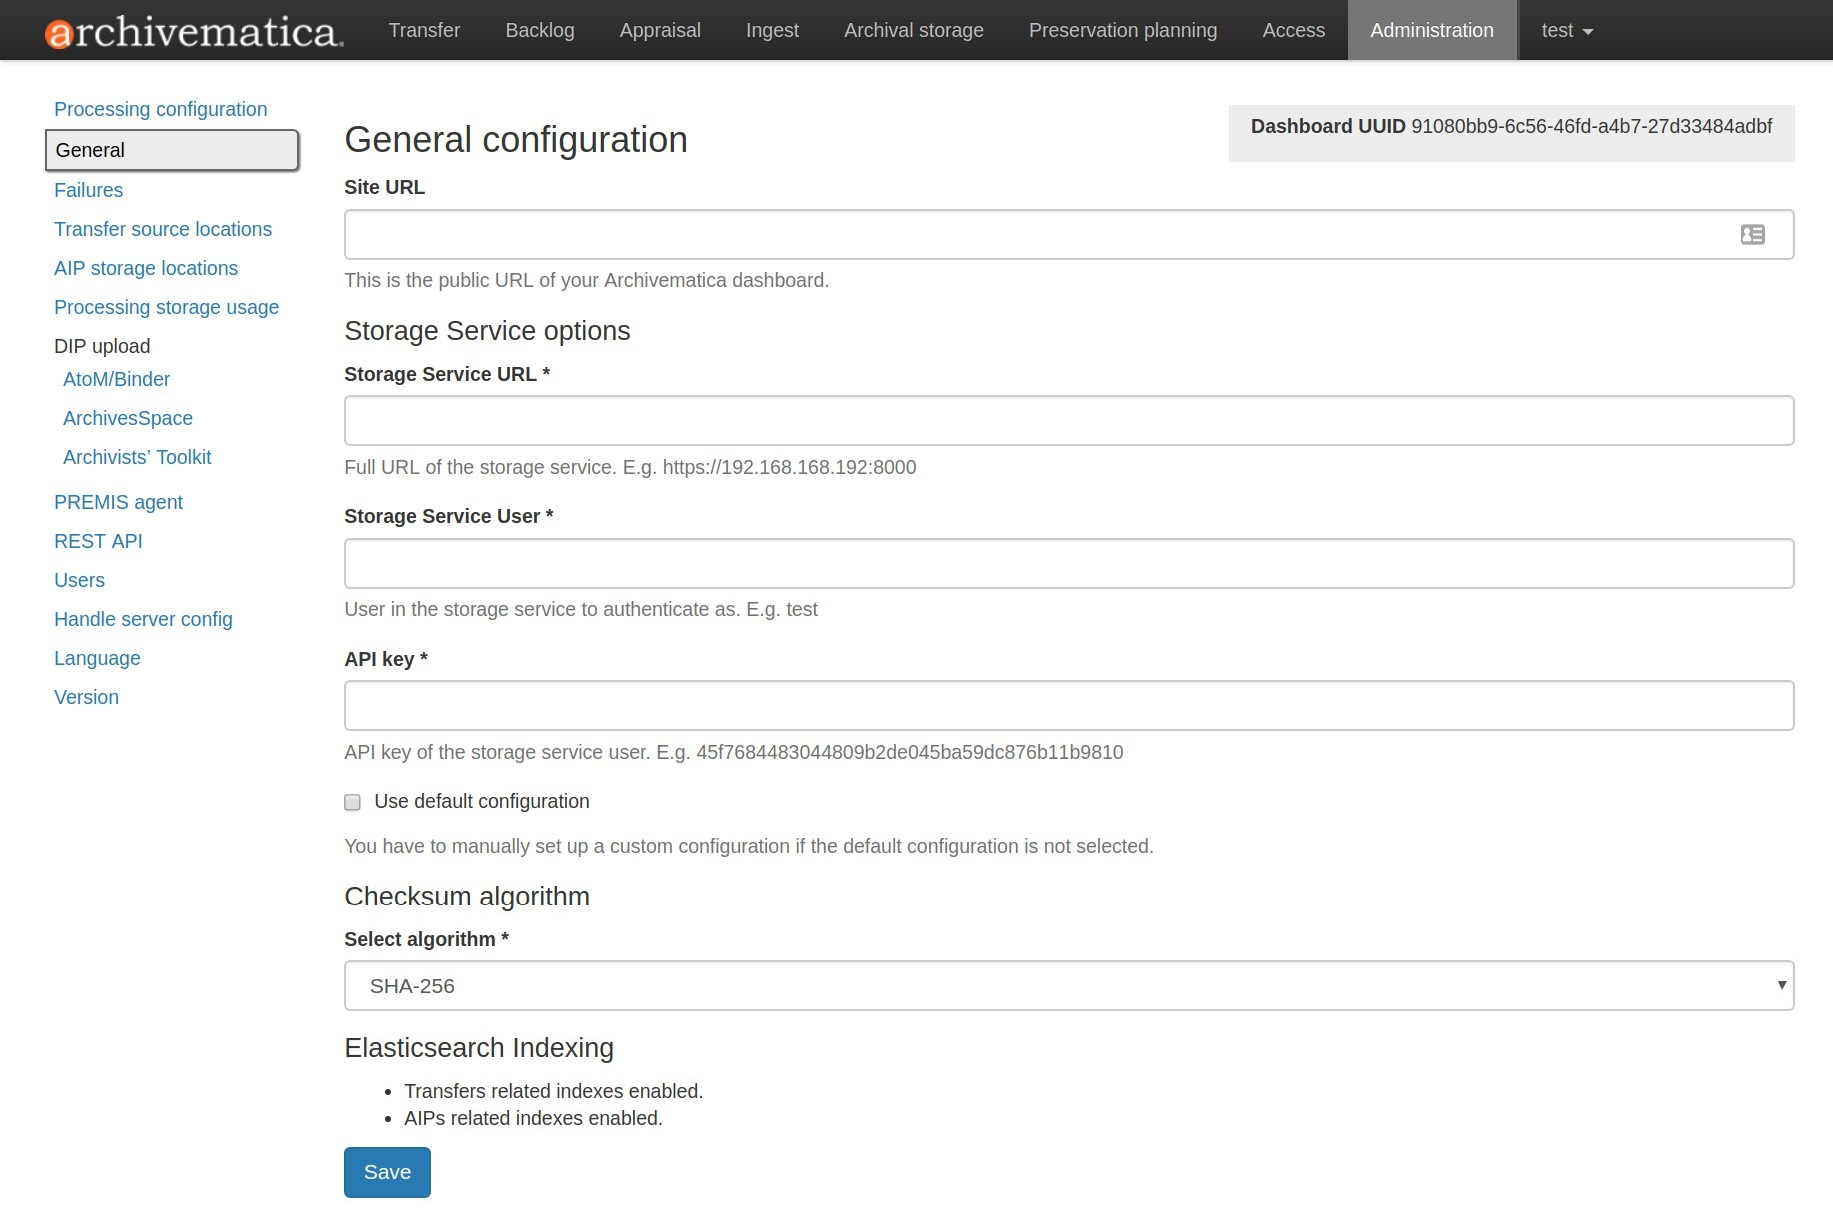
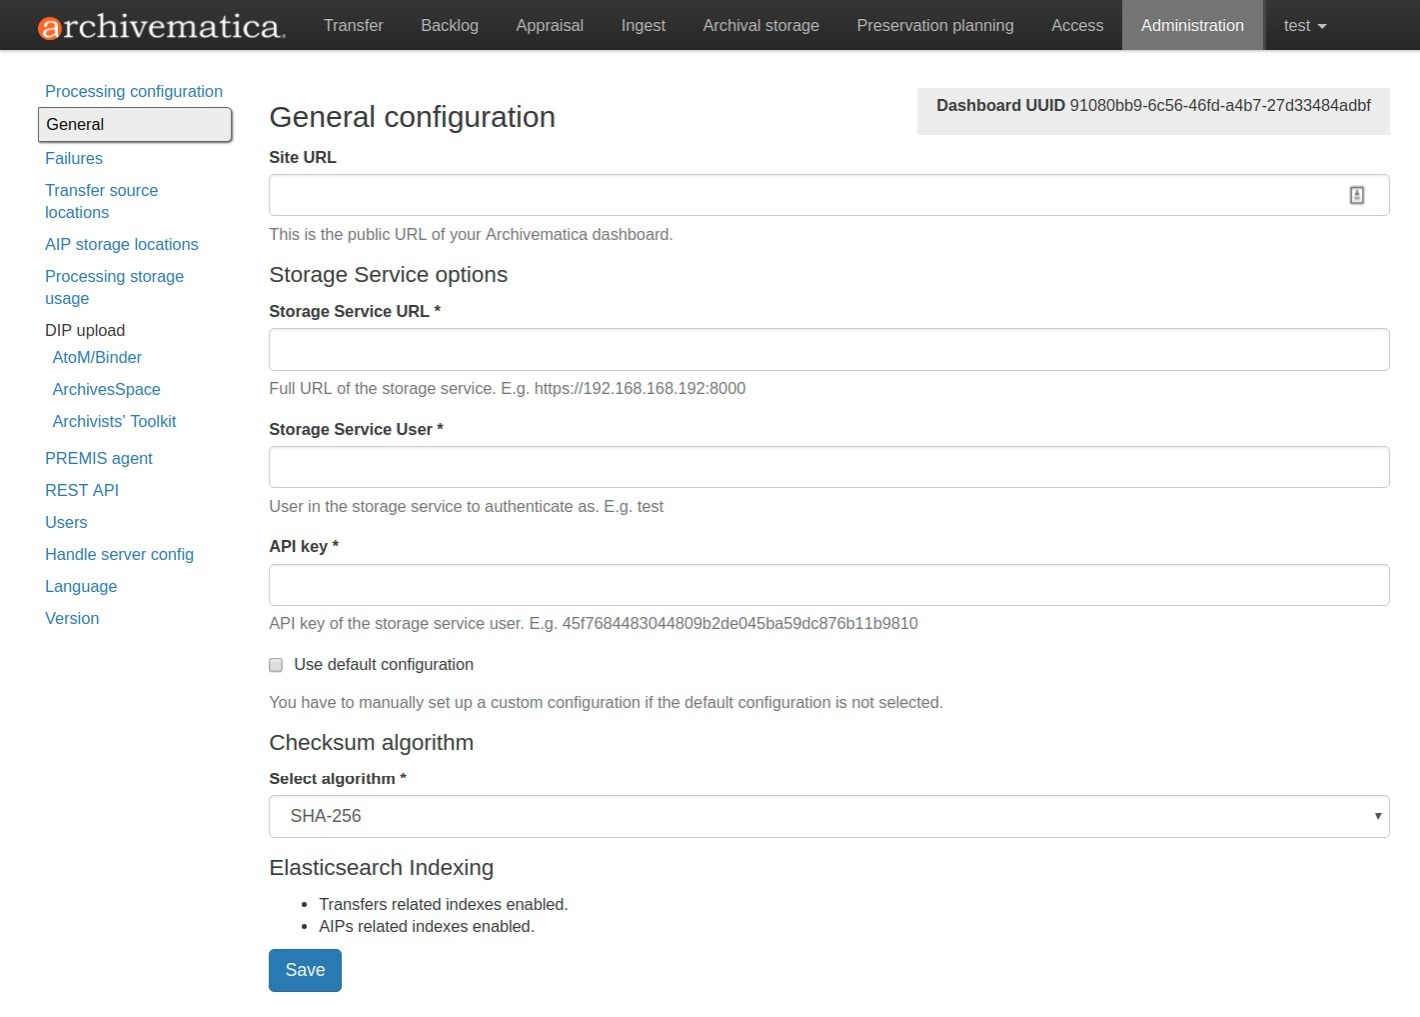
Document Site URL field in Admin > General
This change adds information about the Site URL field on the Administration
tab -> General configuration page. It also updates the associated screenshot
and reformats some field information for style guide consistency.

Connected to artefactual/archivematica#1140

diff --git a/admin-manual/installation-setup/customization/dashboard-config.rst b/admin-manual/installation-setup/customization/dashboard-config.rst
@@ -1,7 +1,7 @@
 .. _dashboard-config:
 
 ============================
-Dashboard administration tab
+Dashboard Administration tab
 ============================
 
 The Archivematica administration pages, under the Administration tab of the
@@ -149,11 +149,9 @@ selection.
 General
 -------
 
-In this section, you can configure the following for your Archivematica client:
-
-* Storage Service options
-* Checksum algorithm
-* Elasticsearch indexing
+The General configuration page allows you to connect your Archivematica instance
+to the Storage Service and set the default checksum algorithm used in
+processing.
 
 .. figure:: images/generalConfig.*
    :align: center
@@ -163,12 +161,39 @@ In this section, you can configure the following for your Archivematica client:
 
    General configuration options in Administration tab of the dashboard
 
+General configuration
+^^^^^^^^^^^^^^^^^^^^^
+
+Fields:
+
+* **Site URL**: This is the public URL of your Archivematica dashboard. This
+  field is optional.
+
+.. note::
+   Archivematica will try to register itself with the Storage Service. If you
+   have installed Archivematica with a static URL or IP address, you may not
+   need to set the Site URL here. However, if you expect the URL or IP address
+   to change you should use a URL that will not change over time.
+
 Storage Service options
 ^^^^^^^^^^^^^^^^^^^^^^^
 
-This is where you'll find the complete URL for the Storage Service, along with a
-username and API key. See the Storage Service documentation for more information
-about this feature.
+Archivematica's storage spaces and locations are controlled by a back-end
+application called the Storage Service. For more information about the Storage
+Service, see the :ref:`Storage Service documentation <storageservice:index>`.
+
+Fields:
+
+* **Storage Service URL**: Full URL of the storage service. E.g.
+  https://192.168.168.192:8000
+* **Storage Service User**: User in the Storage Service to authenticate as.
+  Obtain Storage Service credentials from the Administration tab of the Storage
+  Service.
+* **API key**: API key of the storage service user. Obtain Storage Service
+  credentials from the Administration tab of the Storage Service.
+* **Use default configuration**: Check this box if you have deployed the Storage
+  Service using the default space and location configurations. If you have set
+  up custom configurations, uncheck it.
 
 Checksum algorithm
 ^^^^^^^^^^^^^^^^^^
